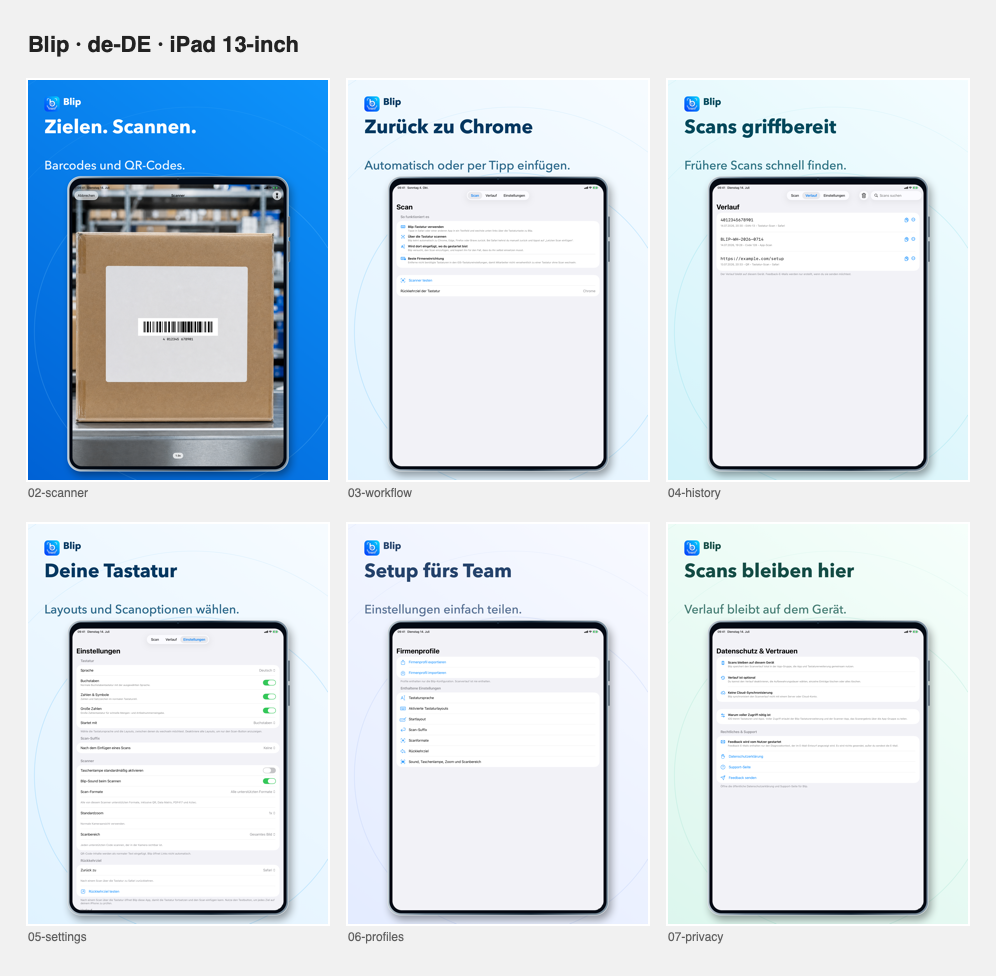
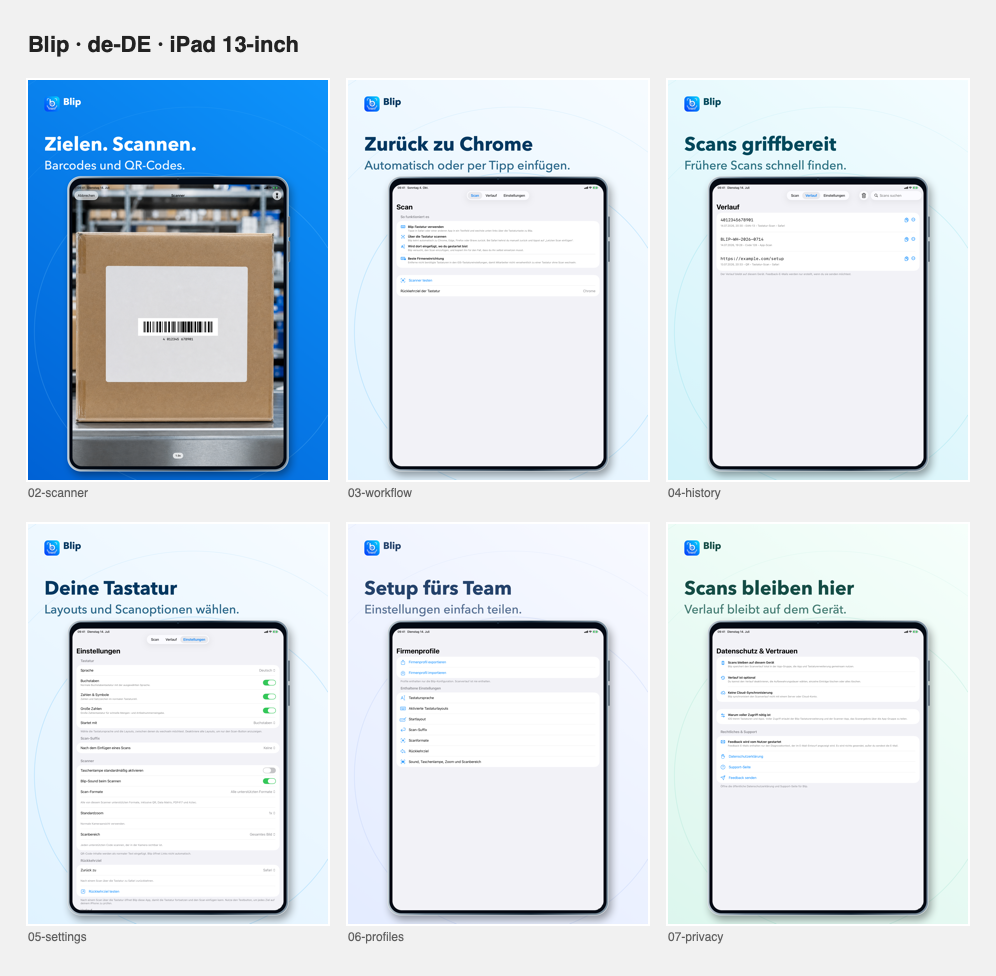
Link Settings rating to App Store and tighten screenshot headings

diff --git a/App/KeyboardLayoutSettingsView.swift b/App/KeyboardLayoutSettingsView.swift
@@ -44,7 +44,10 @@ struct KeyboardLayoutSettingsView: View {
     private var customReturnURL = ""
 
     @State private var showingMailError = false
+    @State private var showingStoreError = false
     @State private var showingSystemReturnHelp = false
+
+    private let appStoreReviewURL = URL(string: "https://apps.apple.com/app/id6782697501?action=write-review")!
 
     private var keyboardLanguage: Binding<KeyboardLanguage> {
         Binding {
@@ -317,6 +320,24 @@ struct KeyboardLayoutSettingsView: View {
 
                 Section {
                     NavigationLink {
+                        PrivacyTrustView()
+                    } label: {
+                        Label("Privacy & Trust", systemImage: "lock.shield")
+                    }
+
+                    Button {
+                        sendFeedback()
+                    } label: {
+                        Label("Send Feedback", systemImage: "paperplane")
+                    }
+                } header: {
+                    Text("Help & Feedback")
+                } footer: {
+                    Text("Feedback opens an email draft with app and device context. Nothing is sent unless you send it.")
+                }
+
+                Section {
+                    NavigationLink {
                         SetupDiagnosticsView(setupStatus: setupStatus)
                     } label: {
                         Label("Keyboard Setup Status", systemImage: setupStatus.isKeyboardEnabled ? "checkmark.circle" : "exclamationmark.circle")
@@ -328,19 +349,11 @@ struct KeyboardLayoutSettingsView: View {
                 }
 
                 Section {
-                    NavigationLink {
-                        PrivacyTrustView()
-                    } label: {
-                        Label("Privacy & Trust", systemImage: "lock.shield")
-                    }
-
                     Button {
-                        sendFeedback()
+                        rateBlip()
                     } label: {
-                        Label("Send Feedback", systemImage: "envelope")
+                        Label("Rate Blip", systemImage: "star.fill")
                     }
-                } header: {
-                    Text("Help & Feedback")
                 }
             }
             .navigationTitle("Settings")
@@ -348,12 +361,17 @@ struct KeyboardLayoutSettingsView: View {
                 _ = ScanHistoryStore.applyRetention()
             }
             .alert("Mail is not available", isPresented: $showingMailError) {
-                Button("Copy email address") {
-                    UIPasteboard.general.string = SupportEmail.supportAddress
+                Button("OK", role: .cancel) {}
+            } message: {
+                Text("Install or configure Mail to send feedback from Blip.")
+            }
+            .alert("App Store is not available", isPresented: $showingStoreError) {
+                Button("Copy App Store link") {
+                    UIPasteboard.general.url = appStoreReviewURL
                 }
                 Button("OK", role: .cancel) {}
             } message: {
-                Text("Send feedback to \(SupportEmail.supportAddress) using your preferred email app.")
+                Text("Open the copied link to rate Blip in the App Store.")
             }
             .alert("Return to Safari", isPresented: $showingSystemReturnHelp) {
                 Button("OK", role: .cancel) {}
@@ -387,6 +405,15 @@ struct KeyboardLayoutSettingsView: View {
 
         SupportEmail.open(url) {
             showingMailError = true
+        }
+    }
+
+    private func rateBlip() {
+        UIApplication.shared.open(appStoreReviewURL) { didOpen in
+            guard !didOpen else { return }
+            DispatchQueue.main.async {
+                showingStoreError = true
+            }
         }
     }
 }

diff --git a/App/SupportEmail.swift b/App/SupportEmail.swift
@@ -7,24 +7,19 @@ enum SupportEmail {
     static let supportURL = URL(string: "https://thisistoni.github.io/blip-keyboard-scanner/support.html")!
 
     static func feedbackURL() -> URL? {
-        let prompt = NSLocalizedString("Tell us what worked or what could be better:", comment: "Editable feedback draft prompt")
-        let contextLabel = NSLocalizedString("Context:", comment: "Feedback draft context label")
-        return mailURL(
+        mailURL(
             subject: "Blip Feedback",
             body: """
-            \(prompt)
+            Hi Blip team,
 
 
-            \(contextLabel)
-            \(basicContext())
+            Feedback:
+
+
+            Context:
+            \(settingsContext())
             """
         )
-    }
-
-    private static func basicContext() -> String {
-        let appVersion = Bundle.main.infoDictionary?["CFBundleShortVersionString"] as? String ?? "Unknown"
-        let buildNumber = Bundle.main.infoDictionary?["CFBundleVersion"] as? String ?? "Unknown"
-        return "Blip \(appVersion) (\(buildNumber)) · iOS \(UIDevice.current.systemVersion) · \(UIDevice.current.model)"
     }
 
     static func scanIssueURL(for item: ScanHistoryItem) -> URL? {

diff --git a/scripts/compose_app_store_screenshots.swift b/scripts/compose_app_store_screenshots.swift
@@ -126,7 +126,7 @@ func layout(for family: String) -> FamilyLayout {
             iconSize: 90,
             headlineFontSize: 126,
             detailFontSize: 74,
-            headlineRect: CGRect(x: 86, y: 2260, width: 1148, height: 340),
+            headlineRect: CGRect(x: 86, y: 2120, width: 1148, height: 340),
             detailRect: CGRect(x: 86, y: 2130, width: 1148, height: 140)
         )
     }
@@ -141,7 +141,7 @@ func layout(for family: String) -> FamilyLayout {
         iconSize: 105,
         headlineFontSize: 132,
         detailFontSize: 84,
-        headlineRect: CGRect(x: 110, y: 2220, width: 1844, height: 300),
+        headlineRect: CGRect(x: 110, y: 2100, width: 1844, height: 300),
         detailRect: CGRect(x: 110, y: 2096, width: 1844, height: 126)
     )
 }

diff --git a/AppStore/Screenshots/README.md b/AppStore/Screenshots/README.md
@@ -47,4 +47,4 @@ BLIP_SCREENSHOT_COMPOSE_OUTPUT=redesign xcrun swift scripts/compose_app_store_sc
 xcrun swift scripts/make_screenshot_previews.swift redesign redesign-previews
 ```
 
-Review the four contact sheets in `AppStore/Screenshots/redesign-previews` and the full-size PNGs in `AppStore/Screenshots/redesign`. These are candidate assets; the existing `composed` folder remains the set used by the Fastlane lane. The captures in this preview predate the new bottom-of-Settings feedback row.
+Review the four contact sheets in `AppStore/Screenshots/redesign-previews` and the full-size PNGs in `AppStore/Screenshots/redesign`. These are candidate assets; the existing `composed` folder remains the set used by the Fastlane lane. The reused Settings captures predate the new bottom-of-Settings App Store rating row.
